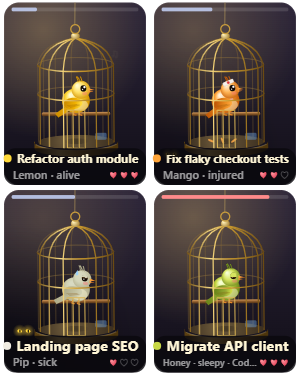
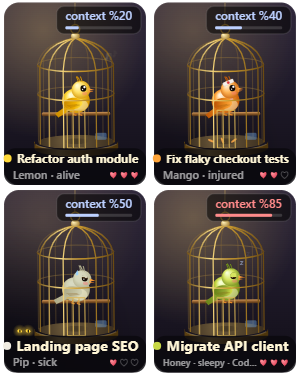
Bağlam göstergesi: yazılı rozet + içinde doluluk çubuğu (ızgarada da okunur)

diff --git a/app/scene.js b/app/scene.js
@@ -434,11 +434,7 @@ function footer(st) {
   const k = model.weeklyDeaths || 0;
   if (k) badge(18, 22, `💀 ${k}`, 'rgba(255,170,170,0.85)', 'left');
   if (st && st.status !== 'dead' && (st.contextPct || 0) > 0.005) {
-    const pct = Math.round((st.contextPct || 0) * 100);
-    const col = pct >= 80 ? '#ff8a8a' : pct >= 60 ? '#ffd27a' : 'rgba(200,215,255,0.8)';
-    const w = badge(222, 22, `${l.ctx} ${pct}%`, col, 'right');
-    rrect(222 - w + 6, 25, w - 12, 2.5, 1.2); ctx.fillStyle = 'rgba(255,255,255,0.12)'; ctx.fill();
-    rrect(222 - w + 6, 25, Math.max(1.5, (w - 12) * Math.min(1, pct / 100)), 2.5, 1.2); ctx.fillStyle = col; ctx.fill();
+    ctxBadge(st.contextPct, 1);
   }
   ctx.textAlign = 'center';
   // ad + durum kapsülü
@@ -526,10 +522,25 @@ function cellLabel(st, s) {
     for (let i = 0; i < n; i++) heart(214 - (n - 1 - i) * 8.5 * f, 277 + 1.5 * f, 0.62 * f, i < st.lives);
   }
   const pct = clamp(st.contextPct || 0, 0, 1);
-  if (pct > 0.005 && st.status !== 'dead') {
-    rrect(20, 14, 200, 3 * f, 1.5 * f); ctx.fillStyle = 'rgba(255,255,255,0.12)'; ctx.fill();
-    rrect(20, 14, Math.max(3, 200 * pct), 3 * f, 1.5 * f); ctx.fillStyle = pct >= 0.8 ? '#ff8a8a' : pct >= 0.6 ? '#ffd27a' : 'rgba(200,215,255,0.8)'; ctx.fill();
-  }
+  if (pct > 0.005 && st.status !== 'dead') ctxBadge(pct, f);
+}
+
+// Bağlam doluluğu: yazılı rozet ("bağlam 42%") + rozetin içinde altta doluluk çubuğu.
+// f: ızgarada küçülen kafeste yazının gerçek boyutta okunur kalması için büyütme.
+function ctxBadge(p, f) {
+  const pct = Math.round(clamp(p || 0, 0, 1) * 100);
+  const col = pct >= 80 ? '#ff8a8a' : pct >= 60 ? '#ffd27a' : '#bcd0ff';
+  const txt = `${L().ctx} %${pct}`;
+  ctx.font = `600 ${9.5 * f}px "Segoe UI", system-ui, sans-serif`;
+  const pad = 7 * f; const w = ctx.measureText(txt).width + pad * 2; const h = 22 * f;
+  const x = 224 - w; const y = 12;
+  rrect(x, y, w, h, 6 * f); ctx.fillStyle = 'rgba(0,0,0,0.55)'; ctx.fill();
+  ctx.strokeStyle = 'rgba(255,255,255,0.10)'; ctx.lineWidth = f; ctx.stroke();
+  ctx.fillStyle = col; ctx.textAlign = 'left'; ctx.fillText(txt, x + pad, y + 11 * f);
+  const bw = w - pad * 2; const by = y + h - 6 * f;
+  rrect(x + pad, by, bw, 2.4 * f, 1.2 * f); ctx.fillStyle = 'rgba(255,255,255,0.15)'; ctx.fill();
+  rrect(x + pad, by, Math.max(2 * f, bw * pct / 100), 2.4 * f, 1.2 * f); ctx.fillStyle = col; ctx.fill();
+  ctx.textAlign = 'center';
 }
 
 function drawCage(t, dt, full) {
